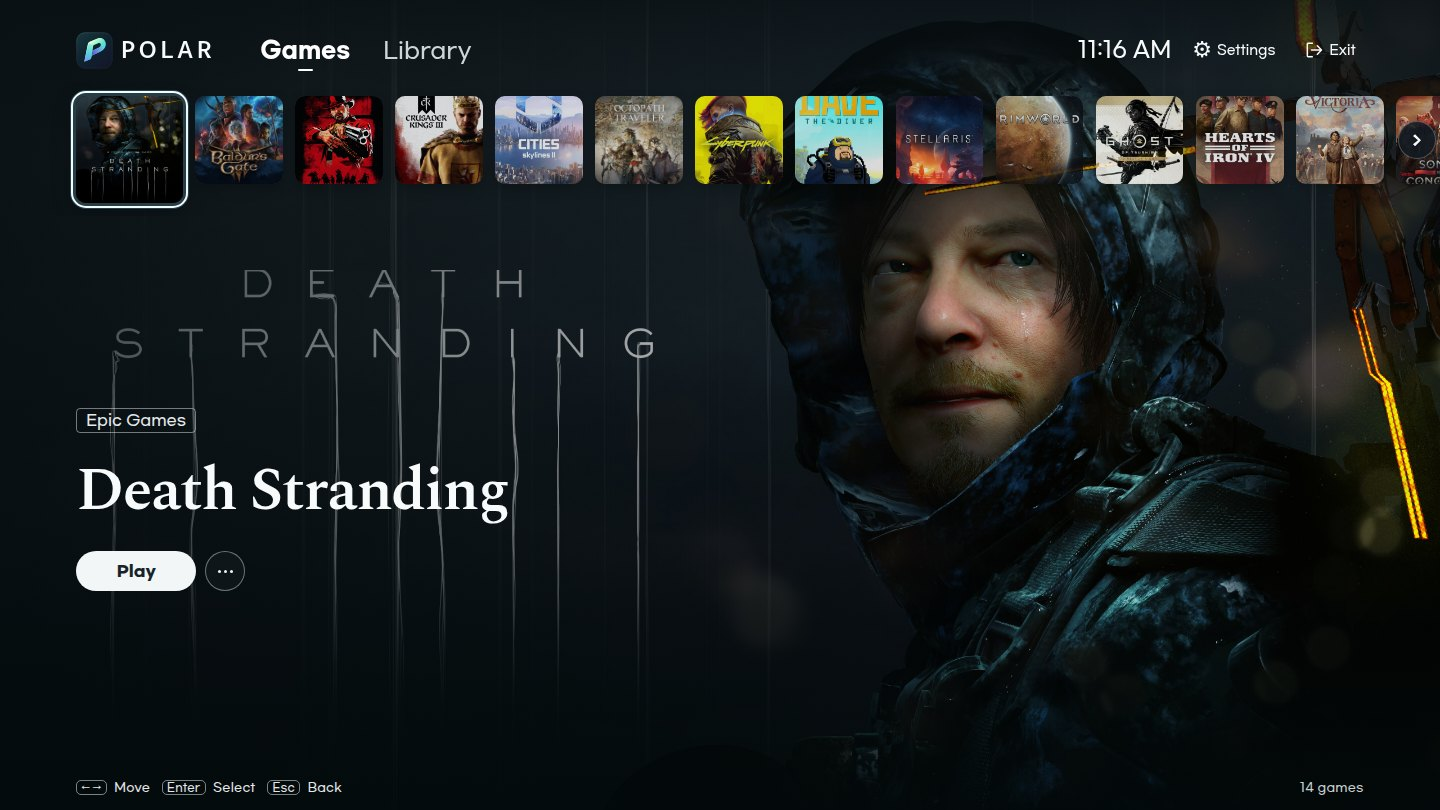
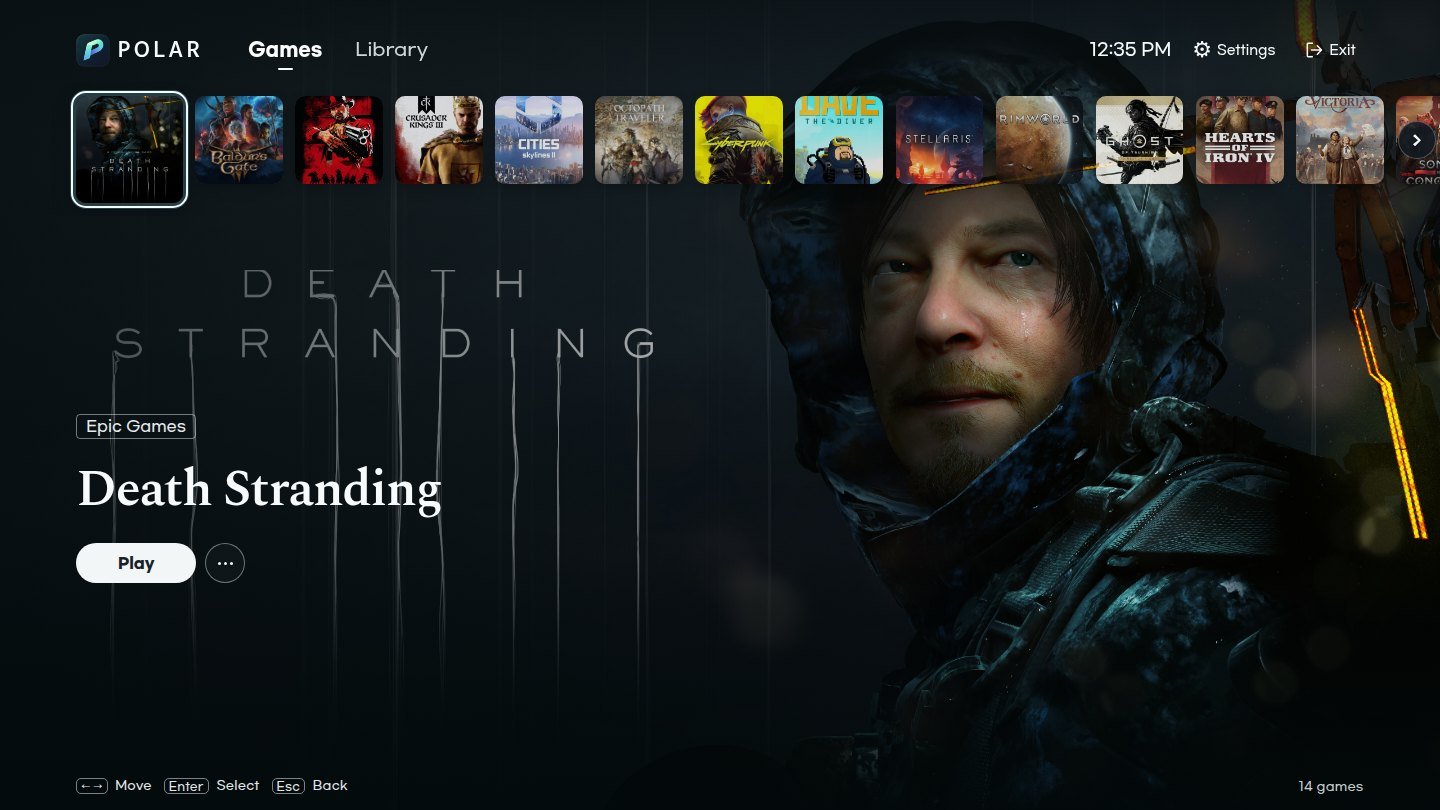
Scale bilingual typography smoothly and fit long game labels

diff --git a/desktop/ui/style.css b/desktop/ui/style.css
@@ -3,15 +3,15 @@
 @font-face{font-family:"Spectral";src:url("fonts/Spectral-SemiBold.ttf") format("truetype");font-weight:600;font-display:swap}
 @font-face{font-family:"Nanum Myeongjo";src:url("fonts/NanumMyeongjo-Bold.ttf") format("truetype");font-weight:600;font-display:swap}
 
-*{box-sizing:border-box}body{margin:0;background:var(--background,#10171a);color:var(--foreground,#fff);font-family:"Gmarket Sans","Segoe UI","Malgun Gothic",sans-serif}button{font:inherit;color:inherit;cursor:pointer;border:0;background:none}button:focus-visible, input:focus-visible{outline:3px solid #9cdfff;outline-offset:4px}[hidden]{display:none!important}
+*{box-sizing:border-box}body{margin:0;background:var(--background,#10171a);color:var(--foreground,#fff);font-size:clamp(15px,1vw,17px);font-family:"Gmarket Sans","Segoe UI","Malgun Gothic",sans-serif}button{font:inherit;color:inherit;cursor:pointer;border:0;background:none}button:focus-visible, input:focus-visible{outline:3px solid #9cdfff;outline-offset:4px}[hidden]{display:none!important}
 #polar{--pad:clamp(22px,5.3%,82px);position:relative;isolation:isolate;overflow:hidden;color:#f8fbfc;background:#10191d;min-height:535px;aspect-ratio:16/9;max-width:1920px;margin:auto;display:flex;flex-direction:column;container-type:inline-size;color-scheme:dark}
 .bg,.wash{position:absolute;inset:0;z-index:-1;pointer-events:none}.bg{background-size:cover;background-position:center;transition:opacity .42s ease}.wash{background:linear-gradient(180deg,rgba(8,15,19,.85) 0%,rgba(8,15,19,.38) 18%,transparent 42%,rgba(4,10,12,.08) 69%,rgba(3,10,11,.83) 100%),linear-gradient(90deg,rgba(5,14,17,.78),rgba(6,14,17,.28) 53%,transparent 79%)}
-header,footer,.rail,.details,.libHeading,.filters,.libraryResults{padding-inline:var(--pad)}header{display:flex;align-items:center;gap:clamp(14px,3vw,48px);padding-block:clamp(17px,2.1cqw,34px) 12px}.brand,.introSignature{font-family:Inter,"Segoe UI","Malgun Gothic","NanumBarunGothic",sans-serif}.brand{display:inline-flex;align-items:center;gap:8px;font-size:clamp(15px,1.6cqw,25px);font-weight:800;letter-spacing:.19em}.brand img{display:block;width:1.6em;height:1.6em}.tabs{display:flex;gap:clamp(10px,2cqw,30px);align-items:center}.tab{padding:6px 2px;position:relative;color:#d0d6d7;font-size:clamp(15px,1.55cqw,24px)}.tab[aria-current=page]{color:white;font-weight:700}.tab[aria-current=page]:after{content:"";position:absolute;bottom:-2px;width:15px;height:2px;border-radius:2px;background:#fff;left:calc(50% - 7.5px)}.utility{margin-left:auto;display:flex;align-items:center;gap:16px}.gear{font-size:22px;line-height:1}.clock{font-size:clamp(15px,1.5cqw,23px);font-variant-numeric:tabular-nums;font-weight:450}
+header,footer,.rail,.details,.libHeading,.filters,.libraryResults{padding-inline:var(--pad)}header{display:flex;align-items:center;gap:clamp(14px,3vw,48px);padding-block:clamp(17px,2.1cqw,34px) 12px}.brand,.introSignature{font-family:Inter,"Segoe UI","Malgun Gothic","NanumBarunGothic",sans-serif}.brand{display:inline-flex;align-items:center;gap:8px;font-size:clamp(15px,1.45cqw,22px);font-weight:800;letter-spacing:.19em}.brand img{display:block;width:1.6em;height:1.6em}.tabs{display:flex;gap:clamp(10px,2cqw,30px);align-items:center}.tab{min-height:36px;padding:6px 2px;position:relative;color:#d0d6d7;font-size:clamp(15px,1.28cqw,20px)}.tab[aria-current=page]{color:white;font-weight:700}.tab[aria-current=page]:after{content:"";position:absolute;bottom:-2px;width:15px;height:2px;border-radius:2px;background:#fff;left:calc(50% - 7.5px)}.utility{margin-left:auto;display:flex;align-items:center;gap:16px}.gear{font-size:22px;line-height:1}.clock{font-size:clamp(15px,1.22cqw,19px);font-variant-numeric:tabular-nums;font-weight:450}
 .rail{display:flex;align-items:flex-start;gap:clamp(7px,.85cqw,14px);overflow-x:auto;scrollbar-width:none;padding-block:var(--rail-top) 11px;min-height:calc(clamp(83px,9.2cqw,148px) + 27px)}.tile{position:relative;flex:none;height:var(--tile-height,var(--base-tile-height));width:auto;aspect-ratio:1;border-radius:10px;background-position:center 35%;background-size:cover;box-shadow:inset 0 0 0 1px #ffffff27,0 5px 14px #0004;transition:height .2s;opacity:.85}.tile:hover{opacity:1}.tile.sel{opacity:1;outline:2px solid #efffff;outline-offset:3px;box-shadow:0 0 0 6px #9cdfff36,0 7px 24px #0005}.tile.sel:focus-visible{outline-color:#9cdfff}.northCover{display:flex;align-items:flex-end;justify-content:center;color:white;font-style:italic;letter-spacing:-.09em;font-size:clamp(10px,1.2cqw,18px);font-weight:900;padding-bottom:6px;text-shadow:0 2px 5px #000;background-position:75% center}
 .details{margin-top:auto;padding-top:58px;padding-bottom:clamp(30px,4.3cqw,68px)}.meta,.footkeys{display:flex;gap:12px;align-items:center}.meta{font-size:clamp(12px,1.05cqw,16px);color:#e4eaeb;gap:11px}.store{border:1px solid #ffffff70;border-radius:4px;padding:3px 9px;font-weight:600;line-height:1.15}.genre{border-left:1px solid #fff5;padding-left:11px}
-h1{font-size:clamp(41px,6.8cqw,110px);letter-spacing:-.045em;margin:12px 0 10px;max-width:83%;text-wrap:balance}h1.north{font-family:"Arial Black","DejaVu Sans",sans-serif;font-weight:1000;font-style:italic;letter-spacing:-.09em;display:flex;align-items:baseline;gap:.12em}.north:before{content:"";width:.135em;height:.70em;transform:skewX(-17deg);background:#f79c53;box-shadow:.105em 0 0 #c4652e;margin-right:.08em}.sub{font-size:clamp(14px,1.27cqw,21px);color:#e4e9ea;line-height:1.6;margin:0 0 20px;word-break:keep-all}.play,.filter,.return{border-radius:99px}.play,.return{background:#f3f6f6;color:#182329;padding:11px 28px;min-width:120px;font-weight:700}.play:hover,.return:hover{background:#d2e8ef}.filter:hover,.gear:hover{background:#ffffff30}
-footer{margin-top:0;display:flex;justify-content:space-between;align-items:center;padding-block:16px;gap:12px;color:#e4e8eb;font-size:12px;letter-spacing:.02em}.footkeys span{white-space:nowrap}kbd{font:inherit;font-size:11px;font-weight:600;border:1px solid #b7c1c4a8;border-radius:5px;padding:1px 4px;margin-right:4px}.counter{font-variant-numeric:tabular-nums;letter-spacing:.02em;color:#c8d0d1}
-.lib{flex:1;min-height:0;display:flex;flex-direction:column;background:linear-gradient(160deg,#152126cf,#0a1017f5);padding-top:20px}.lib h2{font-size:clamp(26px,3cqw,44px);margin:4px 0 16px}.filters{display:flex;flex-wrap:wrap;gap:6px;margin-bottom:12px}.filter{background:#ffffff12;padding:7px 13px;font-size:13px}.filter[aria-pressed=true]{background:#e7f0f0;color:#122226}.grid{display:grid;grid-template-columns:repeat(auto-fill,minmax(min(100%,clamp(120px,12cqw,200px)),1fr));gap:16px 12px}.card{min-width:0;text-align:left;padding:0;align-self:start}.card b,.card small{display:block;overflow:hidden;text-overflow:ellipsis;white-space:nowrap}.card b{margin-top:5px;font-size:14px}.card small{font-size:12px;color:#bdc9ca;margin-top:3px}.libOn header,.libOn footer{background:#111c22}.libOn #base{opacity:.12}.libOn #fade{visibility:hidden}
+h1{font-size:clamp(41px,6.8cqw,110px);letter-spacing:-.045em;margin:12px 0 10px;max-width:83%;text-wrap:balance}h1.north{font-family:"Arial Black","DejaVu Sans",sans-serif;font-weight:1000;font-style:italic;letter-spacing:-.09em;display:flex;align-items:baseline;gap:.12em}.north:before{content:"";width:.135em;height:.70em;transform:skewX(-17deg);background:#f79c53;box-shadow:.105em 0 0 #c4652e;margin-right:.08em}.sub{font-size:clamp(14px,1.27cqw,21px);color:#e4e9ea;line-height:1.6;margin:0 0 20px;word-break:keep-all}.play,.filter,.return{border-radius:99px}.play,.return{background:#f3f6f6;color:#182329;padding:11px 28px;min-width:120px;min-height:40px;font-weight:700}.play:hover,.return:hover{background:#d2e8ef}.filter:hover,.gear:hover{background:#ffffff30}
+footer{margin-top:0;display:flex;justify-content:space-between;align-items:center;padding-block:16px;gap:12px;color:#e4e8eb;font-size:clamp(12px,.85cqw,15px);letter-spacing:.02em}.footkeys span{white-space:nowrap}kbd{font:inherit;font-size:clamp(11px,.8cqw,15px);font-weight:600;border:1px solid #b7c1c4a8;border-radius:5px;padding:1px 4px;margin-right:4px}.counter{font-variant-numeric:tabular-nums;letter-spacing:.02em;color:#c8d0d1}
+.lib{flex:1;min-height:0;display:flex;flex-direction:column;background:linear-gradient(160deg,#152126cf,#0a1017f5);padding-top:20px}.lib h2{font-size:clamp(24px,2.45cqw,36px);margin:4px 0 16px}.filters{display:flex;flex-wrap:wrap;gap:6px;margin-bottom:12px}.filter{background:#ffffff12;padding:7px 13px;font-size:clamp(13px,.85cqw,15px)}.filter[aria-pressed=true]{background:#e7f0f0;color:#122226}.grid{display:grid;grid-template-columns:repeat(auto-fill,minmax(min(100%,clamp(120px,12cqw,200px)),1fr));gap:16px 12px}.card{min-width:0;text-align:left;padding:0;display:flex;flex-direction:column}.card b{display:-webkit-box;-webkit-box-orient:vertical;-webkit-line-clamp:2;overflow:hidden;overflow-wrap:anywhere;line-height:1.45;margin-top:5px;font-size:clamp(14px,1cqw,16px)}.card small{display:block;font-size:clamp(12px,.82cqw,14px);color:#bdc9ca;margin-top:auto;padding-top:3px}.libOn header,.libOn footer{background:#111c22}.libOn #base{opacity:.12}.libOn #fade{visibility:hidden}
 .overlay{position:absolute;inset:0;display:grid;place-items:center;background:#070d12bf;z-index:4;backdrop-filter:blur(10px);padding:20px}.panel{width:min(100%,370px);padding:26px;background:#1b252bf5;border:1px solid #ffffff30;border-radius:17px;box-shadow:0 15px 50px #0005}.panel h2{margin:0 0 10px;font-size:24px}.panel p{margin:0 0 22px;color:#d0dbdd;line-height:1.6}.panel label{display:block;margin-bottom:22px}.panel input{accent-color:#9bd9e4}.noMotion *{transition:none!important}@media(prefers-reduced-motion:reduce){*{transition:none!important}}
 @media(max-width:620px){#polar{min-height:520px;aspect-ratio:auto}.details{padding-top:110px;padding-bottom:32px}header{gap:16px}.utility{gap:7px}.brand{gap:3px}.rail{padding-right:16px}.footkeys{gap:7px}.tab{font-size:14px}.clock{font-size:13px}.bg{background-position:64% center}.wash{background:linear-gradient(0deg,#051016ed,transparent 67%,#071014c9),linear-gradient(90deg,#06101566,transparent)}}
 @media(max-width:380px){.clock{display:none}.footkeys{gap:4px}header{gap:12px}.sub{max-width:85%}}
@@ -19,7 +19,7 @@ footer{margin-top:0;display:flex;justify-content:space-between;align-items:cente
 .libHeading,.filters{flex:none}
 .libraryResults{flex:1;min-height:0;overflow:auto;container-type:size;overscroll-behavior:contain;scroll-padding-block:6px;padding-block:6px 30px}
 @container (max-height:260px){
- .grid{grid-template-columns:repeat(auto-fill,minmax(min(100%,clamp(120px,12cqw,200px),max(70px,calc(100cqh - 3em))),1fr))}
+ .grid{grid-template-columns:repeat(auto-fill,minmax(min(100%,clamp(120px,12cqw,200px),max(70px,calc(100cqh - 5em))),1fr))}
 }
 .libHeading,.languageRow{display:flex;align-items:center;justify-content:space-between;gap:12px}
 #manage{border:1px solid #ffffff58;border-radius:24px;padding:7px 15px}
@@ -29,7 +29,7 @@ footer{margin-top:0;display:flex;justify-content:space-between;align-items:cente
 .languages button{border-radius:18px;padding:6px 12px}.languages [aria-pressed=true]{background:#e7f0f0;color:#152328}
 @media(max-width:440px){footer{flex-wrap:wrap}.footkeys{flex-wrap:wrap}.libHeading{align-items:start}.libHeading h2{font-size:24px}}
 
-.gear{display:flex;align-items:center;gap:5px;padding:5px;border-radius:8px}.gear span:last-child{font-size:13px}
+.gear{min-height:40px;display:flex;align-items:center;gap:5px;padding:5px;border-radius:8px}.gear span:last-child{font-size:clamp(13px,.85cqw,15px)}
 .clock,.utility button{white-space:nowrap}#quit{min-height:40px;padding:6px 8px}
 .overlay.settingsOpen{background:#10191ff5;align-items:start;overflow:auto;padding:clamp(22px,4cqw,58px) var(--pad);backdrop-filter:blur(18px)}
 .settingsOpen .panel{width:100%;max-width:960px;box-shadow:none;border:0;padding:0;background:none;color:#f5f7f8}
@@ -48,11 +48,10 @@ html,body{height:100%;overflow:hidden}#polar{width:100%;height:100%;aspect-ratio
 .tile{padding:0;display:grid;align-content:end;text-align:left}
 h1{font-weight:600}#homeEmpty{margin:auto 0;padding:20px var(--pad)}.cover{display:flex;align-items:end;aspect-ratio:1;border-radius:8px;padding:0}.card:focus-visible{outline-offset:2px}
 #panel{position:absolute;inset:0;z-index:2;margin:0;max-width:none;max-height:none;width:100%;height:100%;background:#101b22f7;color:#f5f7fa;border:0;overflow:auto;padding:clamp(20px,4vw,58px) var(--pad);backdrop-filter:blur(16px)}
-#panel::backdrop{background:#071016bd}#panel h2{font-size:clamp(26px,3vw,48px);margin:0 0 24px}#panel h3{margin:4px 0 16px}.popBody{max-width:970px}.buttons{display:flex;flex-wrap:wrap;gap:9px;margin:14px 0}.field{display:grid;gap:5px;margin:10px 0}.field input,.field select,#search{background:#202f38;color:#fff;border:1px solid #71818a;padding:9px;border-radius:6px;max-width:500px;font:inherit}
+#panel::backdrop{background:#071016bd}#panel h2{font-size:clamp(24px,2.4vw,36px);margin:0 0 24px}#panel h3{margin:4px 0 16px}.popBody{max-width:970px;overflow-wrap:anywhere}.buttons{display:flex;flex-wrap:wrap;gap:9px;margin:14px 0}.field{display:grid;gap:5px;margin:10px 0}.field input,.field select,#search{background:#202f38;color:#fff;border:1px solid #71818a;padding:9px;border-radius:6px;max-width:500px;font:inherit}
 #panel .return{margin-top:12px}.appList{max-height:190px;overflow:auto;display:grid;gap:3px}.appList button{text-align:left;padding:7px}.note{color:#bfcbce;line-height:1.5}.scanRow{display:flex;justify-content:space-between;gap:16px;border-bottom:1px solid #fff2;padding:10px 0}
 #alert{color:#ffd5bd;white-space:pre-wrap;overflow-wrap:anywhere}.faults{font-size:13px;white-space:pre-wrap;overflow-wrap:anywhere;max-height:110px;overflow:auto}footer{margin-top:auto}.details+footer{margin-top:0}.details{padding-bottom:3cqh}#stage:has(.details:not([hidden])){margin-top:auto}#stage{flex-shrink:0}
-#notice{position:absolute;bottom:4em;right:var(--pad);max-width:60%;background:#19262d;color:#fff;border-radius:8px;padding:10px}#notice:empty{display:none}button:disabled{opacity:.6}
-@media(min-width:1500px){body{font-size:20px}.settingGroup input{width:24px;height:24px}}
+#notice{position:absolute;bottom:4em;right:var(--pad);max-width:60%;max-height:35%;overflow:auto;overflow-wrap:anywhere;background:#19262d;color:#fff;border-radius:8px;padding:10px}#notice:empty{display:none}button:disabled{opacity:.6}
 
 #fade{background-repeat:no-repeat;background-position:center;mask-position:center;mask-repeat:no-repeat}.backgroundSettings{margin-top:24px}.backgroundSettings .field{display:grid;gap:8px}.backgroundSettings .field input{width:100%;height:auto}
 
@@ -60,11 +59,7 @@ h1{font-weight:600}#homeEmpty{margin:auto 0;padding:20px var(--pad)}.cover{displ
 #interface{position:absolute;inset:0;display:flex;flex-direction:column;container-type:size}
 .keyboardKey{display:inline-grid;place-items:center;vertical-align:middle;height:1.4em;padding-block:0;line-height:1}
 .keyboardKey>span{text-box:trim-both cap alphabetic}
-@media(min-width:1500px){
-  .gear span:last-child,footer,.card small,.filter,.settingGroup p.note,.faults{font-size:16px}
-  .card b{font-size:18px}
-  kbd{font-size:15px}
-}
+.settingGroup p.note,.faults{font-size:clamp(13px,.85cqw,15px)}
 @media(max-height:600px){
   #stage .details{padding-block:0}
   .details .buttons{margin-block:8px}
@@ -83,7 +78,7 @@ h1{font-weight:600}#homeEmpty{margin:auto 0;padding:20px var(--pad)}.cover{displ
 #ambient{overflow:clip;background:none}
 #ambient::before{content:"";position:absolute;inset:-32px;background:var(--scene,var(--cover,none)) center/cover no-repeat;filter:blur(26px) saturate(.8) brightness(.72)}
 .libOn #ambient{visibility:hidden}
-h1{font-size:clamp(34px,4.2cqw,66px);max-width:min(82%,26ch);line-height:normal;overflow-wrap:anywhere}
+h1{font-size:clamp(30px,3.55cqw,54px);max-width:min(88%,32ch);line-height:normal;overflow-wrap:anywhere}
 #homeLoading{padding-inline:var(--pad);color:#cfdbde}
 @keyframes polarEnter{from{opacity:0;transform:translateY(8px)}to{opacity:1;transform:translateY(0)}}
 .ready header,.entering #shelf,.entering #stage{animation:polarEnter .46s ease-out both}
@@ -104,7 +99,7 @@ h1{font-size:clamp(34px,4.2cqw,66px);max-width:min(82%,26ch);line-height:normal;
  #shelf{--rail-top:10px;--base-tile-height:min(65px,13cqh)}
  .rail{padding-bottom:10px;min-height:90px}
  .tile.sel{--tile-height:min(84px,17cqh)}
- .details h1{font-size:clamp(28px,7cqh,38px);margin-block:6px}
+ .details h1{font-size:clamp(26px,6.5cqh,34px);margin-block:6px}
 }
 
 #intro{position:absolute;inset:0;z-index:3;display:grid;place-items:center;overflow:clip;background:#10191d;touch-action:manipulation}
@@ -149,8 +144,8 @@ h1{font-size:clamp(34px,4.2cqw,66px);max-width:min(82%,26ch);line-height:normal;
 #panel[data-mode=settings] h2{font-size:1.65em;letter-spacing:-.035em}
 #panel[data-mode=settings] #close{min-width:0;padding:7px 16px;border:1px solid #8299a461;background:#ffffff09;color:#e2edf2;font-size:.9em}
 #panel[data-mode=settings] #content{flex:1;min-height:0}
-.categories{display:grid;grid-template-columns:repeat(3,minmax(0,1fr));gap:4px;padding:0 var(--drawer-pad);border-bottom:1px solid #ffffff22}
-.categories button{color:#bcc9d0;font-size:.88em;line-height:1.25;min-height:44px;padding:8px 4px;border-bottom:2px solid transparent}
+.categories{display:flex;gap:4px;padding:0 var(--drawer-pad);border-bottom:1px solid #ffffff22}
+.categories button{flex:1 1 auto;min-width:0;overflow-wrap:anywhere;color:#bcc9d0;font-size:max(14px,.9em);line-height:1.25;min-height:44px;padding:8px 4px;border-bottom:2px solid transparent}
 .categories button[aria-pressed=true]{border-color:#a9deed;color:white;font-weight:650}
 .categories button:focus-visible{outline-offset:-3px;border-radius:4px}
 .settingGroup{flex:1;min-height:0;overflow:auto;overscroll-behavior:contain;padding:14px var(--drawer-pad) var(--drawer-pad);overflow-wrap:anywhere}
@@ -179,5 +174,5 @@ h1{font-size:clamp(34px,4.2cqw,66px);max-width:min(82%,26ch);line-height:normal;
 
 
 #play[aria-disabled=true]{background:#d9e2e8dc;color:#24343d;cursor:default}
-#launchStatus{margin:4px 0;font-size:.9em;line-height:1.3;color:#eef4f6;text-shadow:0 1px 4px #071018;max-width:65ch;overflow:hidden;text-overflow:ellipsis;white-space:nowrap}
+#launchStatus{margin:4px 0;font-size:.9em;line-height:1.3;color:#eef4f6;text-shadow:0 1px 4px #071018;max-width:65ch;display:-webkit-box;-webkit-box-orient:vertical;-webkit-line-clamp:2;overflow:hidden;overflow-wrap:anywhere}
 #launchStatus.visuallyHidden{position:absolute;width:1px;height:1px;margin:-1px;clip-path:inset(50%);overflow:hidden}

diff --git a/README.md b/README.md
@@ -8,13 +8,13 @@ A desktop launcher for the games you already have installed. Browse Steam, Epic 
 
 | Operating system | Installer | Supported libraries |
 | --- | --- | --- |
-| Windows 11 · x64 | [Download for Windows](https://github.com/Wondermove-Inc/polar/releases/download/v1.0.0-rc.20/Polar-1.0.0-rc.20-windows-x64-setup.exe) | Steam, Epic Games Launcher, PC Game Pass |
-| Ubuntu 24.04 · x64 | [Download the .deb](https://github.com/Wondermove-Inc/polar/releases/download/v1.0.0-rc.20/Polar-1.0.0-rc.20-linux-x64.deb) | Steam, Epic games installed through Heroic |
-| macOS 13+ · Apple Silicon | [Download for Apple Silicon](https://github.com/Wondermove-Inc/polar/releases/download/v1.0.0-rc.20/Polar-1.0.0-rc.20-macos-arm64.dmg) | Steam, Epic Games Launcher |
+| Windows 11 · x64 | [Download for Windows](https://github.com/Wondermove-Inc/polar/releases/download/v1.0.0-rc.21/Polar-1.0.0-rc.21-windows-x64-setup.exe) | Steam, Epic Games Launcher, PC Game Pass |
+| Ubuntu 24.04 · x64 | [Download the .deb](https://github.com/Wondermove-Inc/polar/releases/download/v1.0.0-rc.21/Polar-1.0.0-rc.21-linux-x64.deb) | Steam, Epic games installed through Heroic |
+| macOS 13+ · Apple Silicon | [Download for Apple Silicon](https://github.com/Wondermove-Inc/polar/releases/download/v1.0.0-rc.21/Polar-1.0.0-rc.21-macos-arm64.dmg) | Steam, Epic Games Launcher |
 
-On **Windows**, quit Polar and run the installer to install or update it. On **Ubuntu**, run `sudo apt install ./Polar-1.0.0-rc.20-linux-x64.deb` from the download directory. On **Mac**, open the disk image and drag Polar into **Applications**.
+On **Windows**, quit Polar and run the installer to install or update it. On **Ubuntu**, run `sudo apt install ./Polar-1.0.0-rc.21-linux-x64.deb` from the download directory. On **Mac**, open the disk image and drag Polar into **Applications**.
 
-RC20 is a release candidate. The Windows installer is unsigned. The Mac app is ad-hoc signed and has not been notarized by Apple. [Release notes and SHA-256 checksums](https://github.com/Wondermove-Inc/polar/releases/tag/v1.0.0-rc.20)
+RC21 is a release candidate. The Windows installer is unsigned. The Mac app is ad-hoc signed and has not been notarized by Apple. [Release notes and SHA-256 checksums](https://github.com/Wondermove-Inc/polar/releases/tag/v1.0.0-rc.21)
 
 ## Your library
 

diff --git a/docs/README.md b/docs/README.md
@@ -4,7 +4,7 @@ This guide covers the Windows 11 desktop app. For Ubuntu and macOS packages and 
 
 ## Getting started on Windows
 
-1. Run `Polar-1.0.0-rc.20-windows-x64-setup.exe`. The installer uses your Windows user account. If the WebView2 Runtime is missing, the installer directs you to Microsoft’s download page.
+1. Run `Polar-1.0.0-rc.21-windows-x64-setup.exe`. The installer uses your Windows user account. If the WebView2 Runtime is missing, the installer directs you to Microsoft’s download page.
 2. Open **Polar** from the Start menu. Polar shows your saved library while it scans Steam, Epic Games and PC Game Pass. Move through games with the arrow keys, the onscreen arrows, or a controller. Press Enter or the controller’s confirm button to play.
 3. Open **Settings → Game library** to see how many games each launcher found and read scan details. Use **Settings → Startup** to launch Polar at Windows sign-in. Close the settings drawer with **Close**, an outside click, Esc or the controller’s back button.
 4. To update, quit Polar using the button next to Settings, then run the new installer. To uninstall, use **Installed apps** in Windows Settings. Polar stores its user data separately from the installation directory and from your games and saves.
